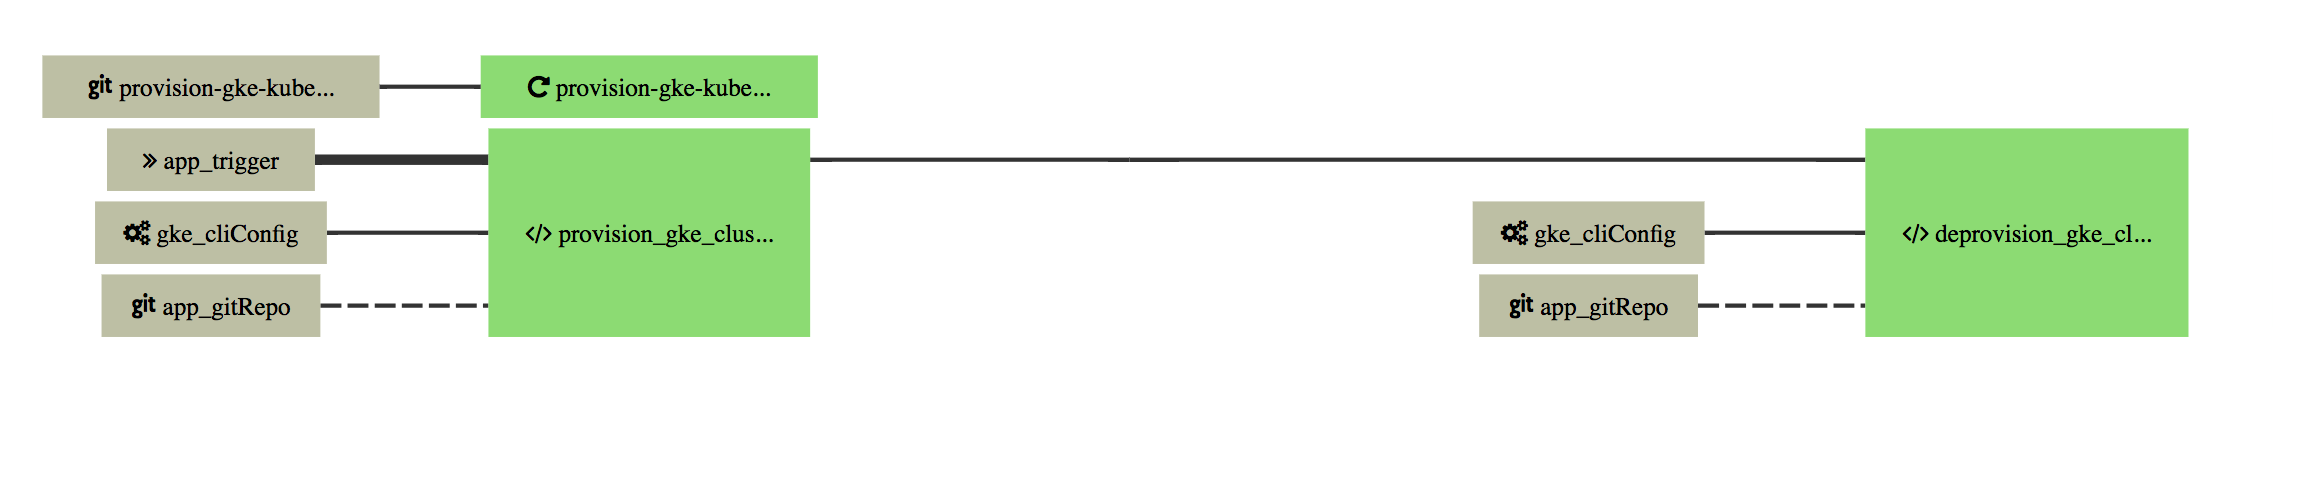
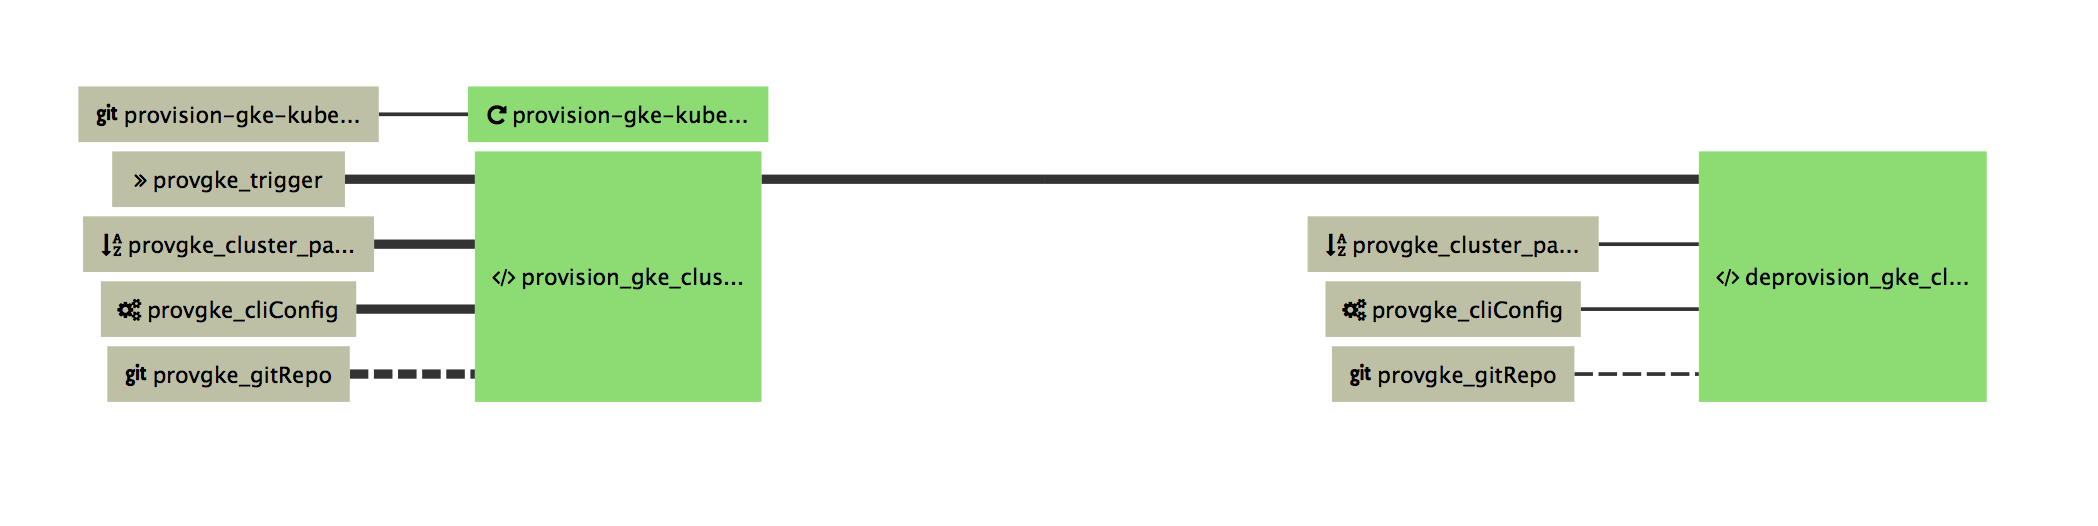
update provision sample to pass cluster data as params

Changed region(s): [[0.0, 0.0896, 0.8365, 0.7769], [0.6196, 0.3884, 0.9604, 0.7769], [0.8055, 0.239, 0.9604, 0.2988]]

diff --git a/sources/provision/kubernetes-with-gkecli.md b/sources/provision/kubernetes-with-gkecli.md
@@ -16,9 +16,10 @@ These are the key components of the assembly line diagram -
 
 **Resources (grey boxes)**
 
-* `app_gitRepo` is a **required** [gitRepo](/platform/workflow/resource/gitrepo/) resource which is a pointer to the git repository that contains your cli scripts.
-* `gke_cliConfig` is a **required** [cliConfig](/platform/workflow/resource/cliconfig/) resource which is a pointer to the private key of your service account needed to initialize the gcloud CLI.
-* `app_trigger` is an **optional** [trigger](/platform/tutorial/workflow/shippable-triggers-yml/) that can be used to trigger the workflow by committing a change to update the version of the trigger.
+* `provgke_cluster_params` is a **required** [params](/platform/workflow/resource/params) resource that stores key-value pairs that are set as environment variables for consumption by the application.
+* `provgke_gitRepo` is a **required** [gitRepo](/platform/workflow/resource/gitrepo/) resource which is a pointer to the git repository that contains your cli scripts.
+* `provgke_cliConfig` is a **required** [cliConfig](/platform/workflow/resource/cliconfig/) resource which is a pointer to the private key of your service account needed to initialize the gcloud CLI.
+* `provgke_trigger` is an **optional** [trigger](/platform/tutorial/workflow/shippable-triggers-yml/) that can be used to trigger the workflow by committing a change to update the version of the trigger.
 
 **Jobs (green boxes)**
 
@@ -37,9 +38,31 @@ They are three configuration files that are needed to achieve this usecase -
 
 ## Steps
 
-###1. Define `app_gitRepo`.
+###1. Define `provgke_cluster_params`.
 
-* **Description:** `app_gitRepo` is a [gitRepo](/platform/workflow/resource/gitrepo/) resource which is a pointer to the git repository that contains your cli scripts.
+* **Description:** `provgke_cluster_params` is a [params](/platform/workflow/resource/params) resource used to specify key-value pairs that are set as environment variables for consumption by the application. We set environment variables needed to create  the cluster such as name, number of nodes, machine type.
+* **Required:** No.
+
+**Steps**
+
+Add the following yml block to your [shippable.resources.yml](/platform/tutorial/workflow/shippable-resources-yml/) file.
+
+```
+resources:
+
+- name: provgke_cluster_params
+  type: params
+  version:
+    params:
+      PROVGKE_CLUSTER_NAME: "test-kube-cluster"
+      PROVGKE_CLUSTER_NUM_NODES: 1
+      PROVGKE_CLUSTER_MACHINE_TYPE: "n1-standard-1"
+      PROVGKE_KUBERNETES_NAMESPACE: "kube-app"
+```
+
+###2. Define `provgke_gitRepo`.
+
+* **Description:** `provgke_gitRepo` is a [gitRepo](/platform/workflow/resource/gitrepo/) resource which is a pointer to the git repository that contains your cli scripts.
 * **Required:** Yes.
 * **Integrations needed:** default SCM account integration or other source control providers.
 
@@ -54,7 +77,7 @@ If your CLI repository is on another SCM account, create an integration for it b
 
 **Steps**  
 
-1. Create an account integration using your SCM. Instructions to create an integration can be found [here](http://docs.shippable.com/platform/tutorial/integration/howto-crud-integration/). Set the friendly name of the integration as `dr_github`. If you change the name, please change it also in the yml below .
+1. Create an account integration using your SCM. Instructions to create an integration can be found [here](http://docs.shippable.com/platform/tutorial/integration/howto-crud-integration/). Set the friendly name of the integration as `drship_github`. If you change the name, please change it also in the yml below .
 
 2. Add the following yml block to your [shippable.resources.yml](/platform/tutorial/workflow/shippable-resources-yml/) file.
 
@@ -62,9 +85,9 @@ If your CLI repository is on another SCM account, create an integration for it b
 resources:
 
   # GitHub repo holding scripts to be used in runsh pipeline job
-  - name: app_gitRepo
+  - name: provgke_gitRepo
     type: gitRepo
-    integration: dr_github # replace with your GitHub integration name
+    integration: drship_github # replace with your GitHub integration name
     pointer:
       # replace with source code location (e.g. GitHub) where you cloned this
       # sample project.
@@ -72,30 +95,30 @@ resources:
       branch: master
 ```
 
-###2. Define `gke_cliConfig`.
+###3. Define `provgke_cliConfig`.
 
-* **Description:** `gke_cliConfig` is a [cliConfig](/platform/workflow/resource/cliconfig/) resource which is a pointer to the private key of your service account needed to initialize the gcloud CLI.
+* **Description:** `provgke_cliConfig` is a [cliConfig](/platform/workflow/resource/cliconfig/) resource which is a pointer to the private key of your service account needed to initialize the gcloud CLI.
 * **Required:** Yes.
 * **Integrations needed:** [Google Cloud Integration](/platform/integration/gcloudKey/)
 
 **Steps**  
 
-1. Create an account integration using your Shippable account for GKE. Instructions to create an integration can be found [here](http://docs.shippable.com/platform/tutorial/integration/howto-crud-integration/). Set the friendly name of the integration as `drship_gke`. If you change the name, please change it also in the yml below .
+1. Create an account integration using your Shippable account for GKE. Instructions to create an integration can be found [here](http://docs.shippable.com/platform/tutorial/integration/howto-crud-integration/). Set the friendly name of the integration as `drship_gcloud`. If you change the name, please change it also in the yml below .
 
 2. Add the following yml block to your [shippable.resources.yml](/platform/tutorial/workflow/shippable-resources-yml/) file.
 
 ```
 resources:
 
-  - name: gke_cliConfig
+  - name: provgke_cliConfig
     type: cliConfig
-    integration: drship_gke
+    integration: drship_gcloud
     pointer:
       region: us-central1-b
 ```
 
-###3. Define `app_trigger`.
-* **Description:** `app_trigger` is a [trigger](/platform/tutorial/workflow/shippable-triggers-yml/) that can be used to trigger the workflow by committing a change to update the version of the trigger. In our example, we have used a simple `counter` attribute as the version, but you can use any attribute of your choice that represents a version such as a SHA, semantic version etc.
+###4. Define `provgke_trigger`.
+* **Description:** `provgke_trigger` is a [trigger](/platform/tutorial/workflow/shippable-triggers-yml/) that can be used to trigger the workflow by committing a change to update the version of the trigger. In our example, we have used a simple `counter` attribute as the version, but you can use any attribute of your choice that represents a version such as a SHA, semantic version etc.
 * **Required:** No.
 
 **Steps**
@@ -105,7 +128,7 @@ Add the following yml block to your [shippable.triggers.yml](/platform/tutorial/
 triggers:
 # triggers for the provision-gke-kubernetes-cluster app
 
-  - name: app_trigger
+  - name: provgke_trigger
     type: trigger
     version:
       # update counter and commit the file to trigger the workflow
@@ -113,7 +136,7 @@ triggers:
 
 ```
 
-###4. Define `provision_gke_cluster_job` and `deprovision_gke_cluster_job`.
+###5. Define `provision_gke_cluster_job` and `deprovision_gke_cluster_job`.
 
 * **Description:** `provision_gke_cluster_job` and `deprovision_gke_cluster_job` are [runSh](/platform/workflow/job/runsh/) jobs that let you run any shell script as part of your DevOps Assembly Line. `runSh` is one of the most versatile jobs in the arsenal and can be used to pretty much execute any DevOps activity that can be scripted.
 
@@ -133,28 +156,34 @@ jobs:
   - name: provision_gke_cluster_job
     type: runSh
     steps:
-      - IN: app_gitRepo
+      - IN: provgke_cluster_params
+      - IN: provgke_gitRepo
         # manually trigger the cluster provisioning job and not on every commit to the repository
         switch: off
-      - IN: gke_cliConfig
-      - IN: app_trigger
+      - IN: provgke_cliConfig
+        scopes:
+          - gke
+      - IN: provgke_trigger
       - TASK:
-        # invoke a script that provisions the GKE cluster named test-cluster
-        - script: . $APP_GITREPO_PATH/gitRepo/provision_gke_cluster.sh test-cluster
+        # invoke a script that provisions the GKE cluster defined in the provgke_cluster_params params resource
+        - script: . $PROVGKE_GITREPO_PATH/gitRepo/provision_gke_cluster.sh $PROVGKE_CLUSTER_NAME $PROVGKE_CLUSTER_NUM_NODES $PROVGKE_CLUSTER_MACHINE_TYPE
 
   # Job that deprovisions the GKE cluster
   - name: deprovision_gke_cluster_job
     type: runSh
     steps:
-      - IN: app_gitRepo
+      - IN: provgke_cluster_params
+      - IN: provgke_gitRepo
         switch: off
-      - IN: gke_cliConfig
+      - IN: provgke_cliConfig
+        scopes:
+          - gke
       - IN: provision_gke_cluster_job
       - TASK:
-        # invoke a script that deprovisions the GKE cluster named test-cluster
+        # invoke a script that deprovisions the GKE cluster defined in the provgke_cluster_params params resource
         # $GKE_CLICONFIG_POINTER_REGION is an environment variable that is automatically created and injected
         # by the gke_cliConfig resource and points to the availability zone.
-        - script: . $APP_GITREPO_PATH/gitRepo/deprovision_gke_cluster.sh test-cluster $GKE_CLICONFIG_POINTER_REGION
+        - script: . $PROVGKE_GITREPO_PATH/gitRepo/deprovision_gke_cluster.sh $PROVGKE_CLUSTER_NAME $PROVGKE_CLICONFIG_POINTER_REGION $PROVGKE_KUBERNETES_NAMESPACE
 ```
 
 #### Provisioning script `provision_gke_cluster.sh`
@@ -162,7 +191,7 @@ jobs:
 # This script provisions a GKE cluster
 #! /bin/bash -e
 
-gcloud container clusters create $1 --num-nodes=1 --machine-type=n1-standard-1
+gcloud container clusters create $1 --num-nodes=$2 --machine-type=$3
 ```
 
 #### Deprovisioning script `deprovision_gke_cluster.sh`
@@ -173,21 +202,18 @@ gcloud container clusters create $1 --num-nodes=1 --machine-type=n1-standard-1
 # generate the kubectl config file
 gcloud container clusters get-credentials $1 --zone $2
 
-# replace service with your own service name
-service="hello-world"
-
 # check if services are running and delete cluster only if no service is found
-response=$(kubectl get service $service || echo "ServiceNotFound")
-echo "service query response: "$response
+response=$(kubectl get pods --namespace $3)
+echo "Pods for namespace: "$response
 
-if [[ $response = "ServiceNotFound" ]]
-then
-   echo "no service found, deleting cluster"
-   gcloud -q container clusters delete $1 --zone=$2
-fi
+# delete all pods and services
+kubectl -n $3 delete po,svc --all
+
+# delete the container
+gcloud -q container clusters delete $1 --zone=$2
 ```
 
-###5. Import configuration into your Shippable account to create the assembly line for the application.
+###6. Import configuration into your Shippable account to create the assembly line for the application.
 
 Once you have these jobs and resources yml files as described above, commit them to your repository. This repository is called a [sync repository](/platform/tutorial/workflow/crud-syncrepo/). You can then follow instructions to [add your assembly line to Shippable](/platform/tutorial/workflow/crud-syncrepo/).
 
@@ -195,7 +221,7 @@ Once you have imported your configuration, your assemble line will look like thi
 
 <img src="/images/provision/pipeline-provision-gkecluster.png"/>
 
-###6. Trigger your pipeline
+###7. Trigger your pipeline
 
 When you're ready for deployment, right-click on the `provision_gke_cluster_job` job in the [SPOG View](/platform/visibility/single-pane-of-glass-spog/), and select **Build Job**.
 
